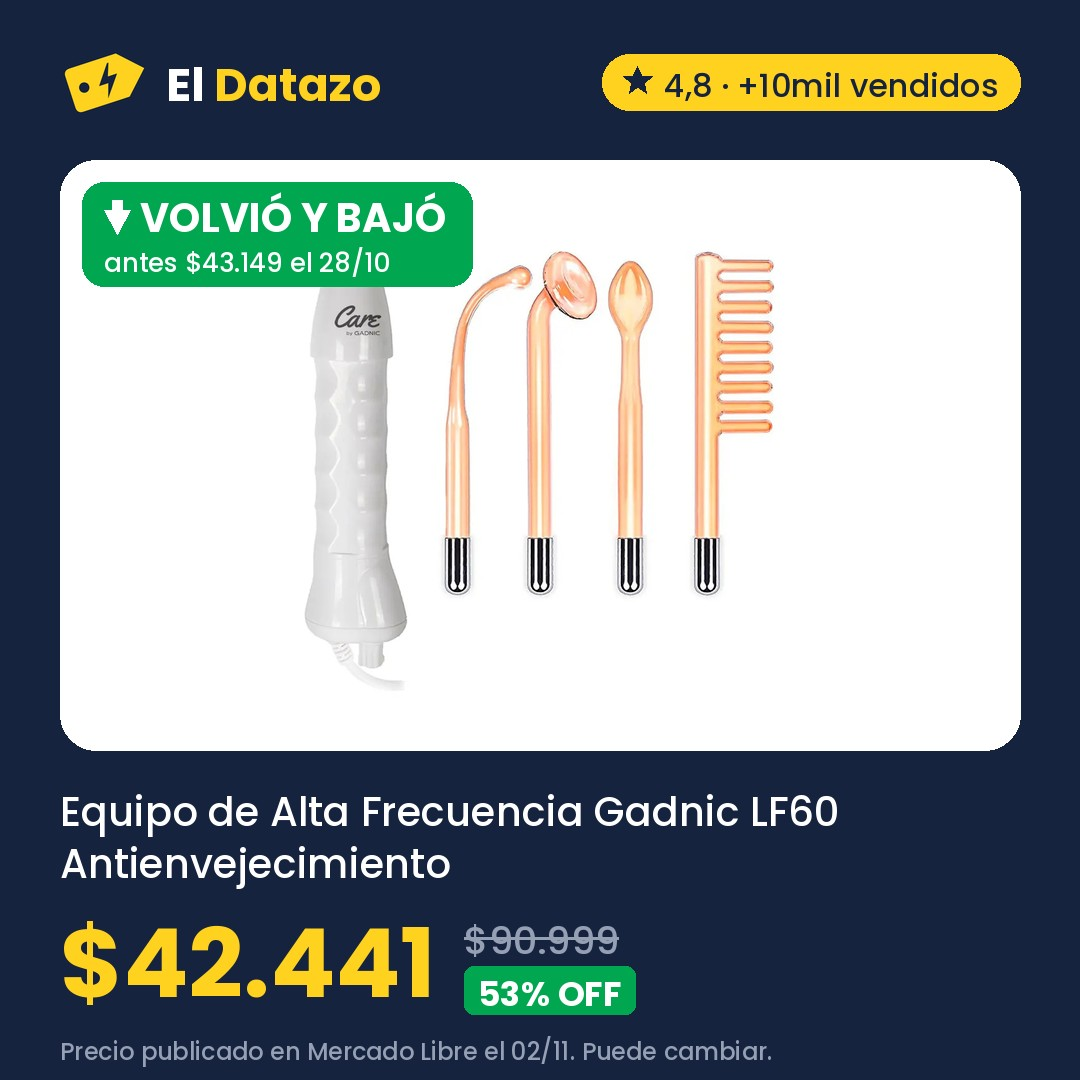
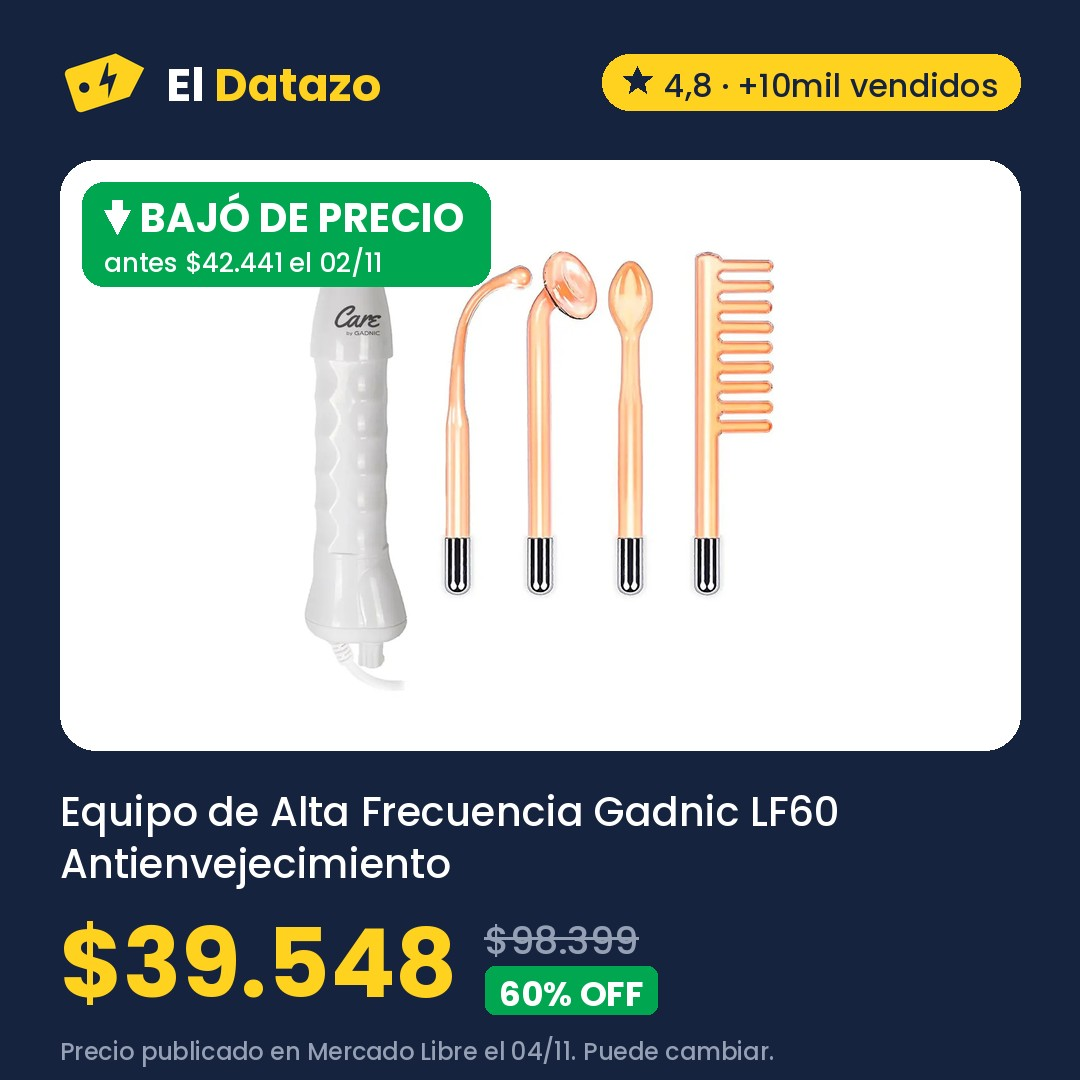
Ofertas 2026-11-04 23:33

Changed region(s): [[0.1222, 0.8556, 0.7028, 1.0], [0.1222, 0.1528, 0.4583, 0.275]]

diff --git a/index.html b/index.html
@@ -285,18 +285,18 @@ padding:3px 9px;border-radius:999px}
         tu precio.</p>
       </section>
       
-  <section class="hero" id="MLA47200126" aria-labelledby="hero-titulo">
-    <div class="hero-foto"><img src="img/MLA47200126.jpg" alt="Extractor De Leche Eléctrico Mawe By Gadnic RH-289 150 ml 9 Niveles Pantalla LED Batería Recargable 1200mAh" width="1080" height="1080"></div>
+  <section class="hero" id="MLA26522167" aria-labelledby="hero-titulo">
+    <div class="hero-foto"><img src="img/MLA26522167.jpg" alt="Equipo de Alta Frecuencia Gadnic LF60 Antienvejecimiento Antiacné Reafirmante Facial 4 Electrodos" width="1080" height="1080"></div>
     <div class="etiqueta">
-      <p class="etiqueta-cabeza">El datazo de hoy <span class="sello">Quedan 7 días</span></p>
-      <h2 id="hero-titulo">Extractor De Leche Eléctrico Mawe By Gadnic RH-289 150 ml 9 Niveles Pantalla LED Batería Recargable 1200mAh</h2>
-      <p class="hero-precio">$31.599</p>
-      <p class="hero-antes"><s>$76.249</s> <span class="off">59% OFF</span></p>
-      <p class="bajo pastilla"><b>⬇ Volvió y bajó</b> · Antes $43.482 el 02/11 · 27% menos</p>
-      <p class="nota">Precio de hoy a las 16:34 en Mercado Libre. Puede cambiar.</p>
-      <a class="boton oscuro" href="https://meli.la/314C11i" rel="sponsored noopener" target="_blank"
-         data-oferta="MLA47200126">Ver oferta en Mercado Libre</a>
-      <a class="compartir" href="https://wa.me/?text=Mir%C3%A1%20este%20datazo%3A%20Extractor%20De%20Leche%20El%C3%A9ctrico%20Mawe%20By%20Gadnic%20RH-289%20150%20ml%209%20Niveles%20Pantalla%20LED%20Bater%C3%ADa%20Recargable%201200mAh%20a%20%2431.599%20https%3A//eldatazo.com.ar/%23MLA47200126" target="_blank" rel="noopener" data-estilo="texto"><svg viewBox="0 0 24 24" width="16" height="16" aria-hidden="true"><path d="M4 20l1.3-4A8 8 0 1 1 8 18.7L4 20z" fill="none" stroke="currentColor" stroke-width="2" stroke-linejoin="round"/></svg> Compartir por WhatsApp</a>
+      <p class="etiqueta-cabeza">El datazo de hoy <span class="sello">Quedan 5 días</span></p>
+      <h2 id="hero-titulo">Equipo de Alta Frecuencia Gadnic LF60 Antienvejecimiento Antiacné Reafirmante Facial 4 Electrodos</h2>
+      <p class="hero-precio">$39.548</p>
+      <p class="hero-antes"><s>$98.399</s> <span class="off">60% OFF</span></p>
+      <p class="bajo pastilla"><b>⬇ Volvió y bajó</b> · Antes $42.441 el 02/11 · 7% menos</p>
+      <p class="nota">Precio de hoy a las 20:33 en Mercado Libre. Puede cambiar.</p>
+      <a class="boton oscuro" href="https://meli.la/1guS1ep" rel="sponsored noopener" target="_blank"
+         data-oferta="MLA26522167">Ver oferta en Mercado Libre</a>
+      <a class="compartir" href="https://wa.me/?text=Mir%C3%A1%20este%20datazo%3A%20Equipo%20de%20Alta%20Frecuencia%20Gadnic%20LF60%20Antienvejecimiento%20Antiacn%C3%A9%20Reafirmante%20Facial%204%20Electrodos%20a%20%2439.548%20https%3A//eldatazo.com.ar/%23MLA26522167" target="_blank" rel="noopener" data-estilo="texto"><svg viewBox="0 0 24 24" width="16" height="16" aria-hidden="true"><path d="M4 20l1.3-4A8 8 0 1 1 8 18.7L4 20z" fill="none" stroke="currentColor" stroke-width="2" stroke-linejoin="round"/></svg> Compartir por WhatsApp</a>
     </div>
   </section>
       
@@ -313,6 +313,8 @@ padding:3px 9px;border-radius:999px}
           <span><b>Yelmo As-3240 Aspiradora Para Auto Recargable Usb Color Gris</b><span class="ahora">$32.899</span><s>$36.567</s> <span class="bajo">⬇ Volvió y bajó</span></span></a></li>
         <li><a href="#MLA19472094"><img src="img/MLA19472094.jpg" alt="" loading="lazy">
           <span><b>God Of War Ragnarok Ps4 Juego Físico Nuevo Sony Original</b><span class="ahora">$69.999</span><s>$75.999</s> <span class="bajo">⬇ Bajó</span></span></a></li>
+        <li><a href="#MLA26522167"><img src="img/MLA26522167.jpg" alt="" loading="lazy">
+          <span><b>Equipo de Alta Frecuencia Gadnic LF60 Antienvejecimiento Antiacné Reafirmante Facial 4 Electrodos</b><span class="ahora">$39.548</span><s>$42.441</s> <span class="bajo">⬇ Volvió y bajó</span></span></a></li>
         <li><a href="#MLA23456165"><img src="img/MLA23456165.jpg" alt="" loading="lazy">
           <span><b>Silfab AL91 Almohadilla Eléctrica Espalda Large 41 X 28 Cm</b><span class="ahora">$46.932</span><s>$50.465</s> <span class="bajo">⬇ Volvió y bajó</span></span></a></li>
         <li><a href="#MLA63186370"><img src="img/MLA63186370.jpg" alt="" loading="lazy">
@@ -321,8 +323,6 @@ padding:3px 9px;border-radius:999px}
           <span><b>Colchón Inflable Doble Klimber + Inflador + 2 Almohadas</b><span class="ahora">$44.946</span><s>$47.514</s> <span class="bajo">⬇ Bajó</span></span></a></li>
         <li><a href="#MLA43803009"><img src="img/MLA43803009.jpg" alt="" loading="lazy">
           <span><b>Mochila Viaje Carry On Avion Porta Notebook Waggs Negro Lisa</b><span class="ahora">$45.087</span><s>$46.799</s> <span class="bajo">⬇ Volvió y bajó</span></span></a></li>
-        <li><a href="#MLA26522167"><img src="img/MLA26522167.jpg" alt="" loading="lazy">
-          <span><b>Equipo de Alta Frecuencia Gadnic LF60 Antienvejecimiento Antiacné Reafirmante Facial 4 Electrodos</b><span class="ahora">$42.441</span><s>$43.149</s> <span class="bajo">⬇ Volvió y bajó</span></span></a></li>
         <li><a href="#MLA16048275"><img src="img/MLA16048275.jpg" alt="" loading="lazy">
           <span><b>Eucerin Sun Oil Control Protector solar facial Toque Seco FPS 50 x 50 ml</b><span class="ahora">$33.886</span> <span class="bajo">⬇ Volvió</span></span></a></li>
         <li><a href="#MLA22130330"><img src="img/MLA22130330.jpg" alt="" loading="lazy">
@@ -346,10 +346,28 @@ padding:3px 9px;border-radius:999px}
             <option value="precio">Más baratas</option>
           </select></label>
       </div>
-      <div class="chips" role="group" aria-label="Rubro"><button type="button" data-filtro="" aria-pressed="true">Todo</button><button type="button" data-filtro="MLA1246" aria-pressed="false">Belleza y Cuidado Personal <span>3</span></button><button type="button" data-filtro="MLA1512" aria-pressed="false">Agro <span>2</span></button><button type="button" data-filtro="MLA1499" aria-pressed="false">Industrias y Oficinas <span>2</span></button><button type="button" data-filtro="MLA409431" aria-pressed="false">Salud y Equipamiento Médico <span>2</span></button><button type="button" data-filtro="MLA1144" aria-pressed="false">Consolas y Videojuegos <span>1</span></button><button type="button" data-filtro="MLA1500" aria-pressed="false">Construcción <span>1</span></button><button type="button" data-filtro="MLA1039" aria-pressed="false">Cámaras y Accesorios <span>1</span></button><button type="button" data-filtro="MLA1276" aria-pressed="false">Deportes y Fitness <span>1</span></button><button type="button" data-filtro="MLA3025" aria-pressed="false">Libros, Revistas y Comics <span>1</span></button><button type="button" data-filtro="MLA1430" aria-pressed="false">Ropa y Accesorios <span>1</span></button></div>
+      <div class="chips" role="group" aria-label="Rubro"><button type="button" data-filtro="" aria-pressed="true">Todo</button><button type="button" data-filtro="MLA1512" aria-pressed="false">Agro <span>2</span></button><button type="button" data-filtro="MLA1246" aria-pressed="false">Belleza y Cuidado Personal <span>2</span></button><button type="button" data-filtro="MLA1499" aria-pressed="false">Industrias y Oficinas <span>2</span></button><button type="button" data-filtro="MLA409431" aria-pressed="false">Salud y Equipamiento Médico <span>2</span></button><button type="button" data-filtro="MLA1384" aria-pressed="false">Bebés <span>1</span></button><button type="button" data-filtro="MLA1144" aria-pressed="false">Consolas y Videojuegos <span>1</span></button><button type="button" data-filtro="MLA1500" aria-pressed="false">Construcción <span>1</span></button><button type="button" data-filtro="MLA1039" aria-pressed="false">Cámaras y Accesorios <span>1</span></button><button type="button" data-filtro="MLA1276" aria-pressed="false">Deportes y Fitness <span>1</span></button><button type="button" data-filtro="MLA3025" aria-pressed="false">Libros, Revistas y Comics <span>1</span></button><button type="button" data-filtro="MLA1430" aria-pressed="false">Ropa y Accesorios <span>1</span></button></div>
       <p class="contador" aria-live="polite"><span data-cuenta>15</span> ofertas</p>
     </div>
     <div class="grilla activas">
+      <article class="tarjeta destacada" id="MLA47200126" data-rubro="MLA1384" data-off="59" data-pub="2026-11-04" data-quedan="7" data-precio="31599" data-bajo="28" data-texto="extractor de leche eléctrico mawe by gadnic rh-289 150 ml 9 niveles pantalla led batería recargable 1200mah">
+        <div class="tarjeta-foto">
+          <img src="img/MLA47200126.jpg" alt="Extractor De Leche Eléctrico Mawe By Gadnic RH-289 150 ml 9 Niveles Pantalla LED Batería Recargable 1200mAh" loading="lazy" width="1080" height="1080">
+        </div>
+        <div class="cuerpo">
+          <div class="fila"><span class="sello baja">⬇ Volvió y bajó</span><span class="sello">Quedan 7 días</span><span class="rubro">Bebés</span></div>
+          <h3>Extractor De Leche Eléctrico Mawe By Gadnic RH-289 150 ml 9 Niveles Pantalla LED Batería Recargable 1200mAh</h3>
+          <p class="precios "><span class="precio">$31.599</span><s class="antes">$76.249</s><span class="off">59% OFF</span></p>
+          <p class="bajo">Antes $43.482 el 02/11 · 27% menos</p>
+          <p class="nota">Precio de hoy a las 20:33 en Mercado Libre. Puede cambiar.</p>
+          <div class="acciones">
+            <a class="boton" href="https://meli.la/314C11i" rel="sponsored noopener" target="_blank"
+               data-oferta="MLA47200126">Ver oferta</a>
+            <a class="compartir" href="https://wa.me/?text=Mir%C3%A1%20este%20datazo%3A%20Extractor%20De%20Leche%20El%C3%A9ctrico%20Mawe%20By%20Gadnic%20RH-289%20150%20ml%209%20Niveles%20Pantalla%20LED%20Bater%C3%ADa%20Recargable%201200mAh%20a%20%2431.599%20https%3A//eldatazo.com.ar/%23MLA47200126" target="_blank" rel="noopener"
+               aria-label="Compartir por WhatsApp" title="Compartir por WhatsApp"><svg viewBox="0 0 24 24" width="16" height="16" aria-hidden="true"><path d="M4 20l1.3-4A8 8 0 1 1 8 18.7L4 20z" fill="none" stroke="currentColor" stroke-width="2" stroke-linejoin="round"/></svg></a>
+          </div>
+        </div>
+      </article>
       <article class="tarjeta destacada" id="MLA16048275" data-rubro="MLA1246" data-off="55" data-pub="2026-11-02" data-quedan="5" data-precio="33885" data-bajo="1" data-texto="eucerin sun oil control protector solar facial toque seco fps 50 x 50 ml">
         <div class="tarjeta-foto">
           <img src="img/MLA16048275.jpg" alt="Eucerin Sun Oil Control Protector solar facial Toque Seco FPS 50 x 50 ml" loading="lazy" width="1080" height="1080">
@@ -359,7 +377,7 @@ padding:3px 9px;border-radius:999px}
           <h3>Eucerin Sun Oil Control Protector solar facial Toque Seco FPS 50 x 50 ml</h3>
           <p class="precios "><span class="precio">$33.886</span><s class="antes">$75.302</s><span class="off">55% OFF</span></p>
           <p class="bajo">Había terminado y volvió al mismo precio</p>
-          <p class="nota">Precio de hoy a las 16:34 en Mercado Libre. Puede cambiar.</p>
+          <p class="nota">Precio de hoy a las 20:33 en Mercado Libre. Puede cambiar.</p>
           <div class="acciones">
             <a class="boton" href="https://meli.la/2Zpeewk" rel="sponsored noopener" target="_blank"
                data-oferta="MLA16048275">Ver oferta</a>
@@ -377,7 +395,7 @@ padding:3px 9px;border-radius:999px}
           <h3>Yelmo As-3240 Aspiradora Para Auto Recargable Usb Color Gris</h3>
           <p class="precios "><span class="precio">$32.899</span><s class="antes">$59.899</s><span class="off">45% OFF</span></p>
           <p class="bajo">Antes $36.567 el 02/11 · 10% menos</p>
-          <p class="nota">Precio del 03/11 en Mercado Libre, revisado hoy a las 16:34. Puede cambiar.</p>
+          <p class="nota">Precio del 03/11 en Mercado Libre, revisado hoy a las 20:33. Puede cambiar.</p>
           <div class="acciones">
             <a class="boton" href="https://meli.la/1BA5g6k" rel="sponsored noopener" target="_blank"
                data-oferta="MLA19719361">Ver oferta</a>
@@ -395,7 +413,7 @@ padding:3px 9px;border-radius:999px}
           <h3>Buclera de Pelo Gadnic B3000 Rizador 3 Tubos 25 mm 150W 180 210 C</h3>
           <p class="precios "><span class="precio">$44.463</span><s class="antes">$100.099</s><span class="off">56% OFF</span></p>
           <p class="bajo">Había terminado y volvió al mismo precio</p>
-          <p class="nota">Precio del 03/11 en Mercado Libre, revisado hoy a las 16:34. Puede cambiar.</p>
+          <p class="nota">Precio del 03/11 en Mercado Libre, revisado hoy a las 20:33. Puede cambiar.</p>
           <div class="acciones">
             <a class="boton" href="https://meli.la/1HyqnAD" rel="sponsored noopener" target="_blank"
                data-oferta="MLA22130330">Ver oferta</a>
@@ -413,29 +431,11 @@ padding:3px 9px;border-radius:999px}
           <h3>Crique Hidraulico Carrito Gato Para Autos 2 Tn Mejor Calidad</h3>
           <p class="precios "><span class="precio">$47.890</span><s class="antes">$58.014</s><span class="off">17% OFF</span></p>
           <p class="bajo">Antes $54.533 el 01/11 · 12% menos</p>
-          <p class="nota">Precio del 02/11 en Mercado Libre, revisado hoy a las 16:34. Puede cambiar.</p>
+          <p class="nota">Precio del 02/11 en Mercado Libre, revisado hoy a las 20:33. Puede cambiar.</p>
           <div class="acciones">
             <a class="boton" href="https://meli.la/2ZwvMNb" rel="sponsored noopener" target="_blank"
                data-oferta="MLA24729106">Ver oferta</a>
             <a class="compartir" href="https://wa.me/?text=Mir%C3%A1%20este%20datazo%3A%20Crique%20Hidraulico%20Carrito%20Gato%20Para%20Autos%202%20Tn%20Mejor%20Calidad%20a%20%2447.890%20https%3A//eldatazo.com.ar/%23MLA24729106" target="_blank" rel="noopener"
-               aria-label="Compartir por WhatsApp" title="Compartir por WhatsApp"><svg viewBox="0 0 24 24" width="16" height="16" aria-hidden="true"><path d="M4 20l1.3-4A8 8 0 1 1 8 18.7L4 20z" fill="none" stroke="currentColor" stroke-width="2" stroke-linejoin="round"/></svg></a>
-          </div>
-        </div>
-      </article>
-      <article class="tarjeta destacada" id="MLA26522167" data-rubro="MLA1246" data-off="53" data-pub="2026-11-02" data-quedan="5" data-precio="42440" data-bajo="3" data-texto="equipo de alta frecuencia gadnic lf60 antienvejecimiento antiacné reafirmante facial 4 electrodos">
-        <div class="tarjeta-foto">
-          <img src="img/MLA26522167.jpg" alt="Equipo de Alta Frecuencia Gadnic LF60 Antienvejecimiento Antiacné Reafirmante Facial 4 Electrodos" loading="lazy" width="1080" height="1080">
-        </div>
-        <div class="cuerpo">
-          <div class="fila"><span class="sello baja">⬇ Volvió y bajó</span><span class="sello">Quedan 5 días</span><span class="rubro">Belleza y Cuidado Personal</span></div>
-          <h3>Equipo de Alta Frecuencia Gadnic LF60 Antienvejecimiento Antiacné Reafirmante Facial 4 Electrodos</h3>
-          <p class="precios "><span class="precio">$42.441</span><s class="antes">$90.999</s><span class="off">53% OFF</span></p>
-          <p class="bajo">Antes $43.149 el 28/10 · 2% menos</p>
-          <p class="nota">Precio del 02/11 en Mercado Libre, revisado hoy a las 16:34. Puede cambiar.</p>
-          <div class="acciones">
-            <a class="boton" href="https://meli.la/1guS1ep" rel="sponsored noopener" target="_blank"
-               data-oferta="MLA26522167">Ver oferta</a>
-            <a class="compartir" href="https://wa.me/?text=Mir%C3%A1%20este%20datazo%3A%20Equipo%20de%20Alta%20Frecuencia%20Gadnic%20LF60%20Antienvejecimiento%20Antiacn%C3%A9%20Reafirmante%20Facial%204%20Electrodos%20a%20%2442.441%20https%3A//eldatazo.com.ar/%23MLA26522167" target="_blank" rel="noopener"
                aria-label="Compartir por WhatsApp" title="Compartir por WhatsApp"><svg viewBox="0 0 24 24" width="16" height="16" aria-hidden="true"><path d="M4 20l1.3-4A8 8 0 1 1 8 18.7L4 20z" fill="none" stroke="currentColor" stroke-width="2" stroke-linejoin="round"/></svg></a>
           </div>
         </div>
@@ -449,7 +449,7 @@ padding:3px 9px;border-radius:999px}
           <h3>BOTIQUÍN DE BAÑO TRENTO AMUBE 30x50 CM | Espejo y Repisa | Melamina Blanca</h3>
           <p class="precios "><span class="precio">$43.999</span><s class="antes">$45.394</s><span class="off">3% OFF</span></p>
           <p class="bajo">Había terminado y volvió al mismo precio</p>
-          <p class="nota">Precio de hoy a las 16:34 en Mercado Libre. Puede cambiar.</p>
+          <p class="nota">Precio de hoy a las 20:33 en Mercado Libre. Puede cambiar.</p>
           <div class="acciones">
             <a class="boton" href="https://meli.la/2PKMfSp" rel="sponsored noopener" target="_blank"
                data-oferta="MLA28878536">Ver oferta</a>
@@ -467,7 +467,7 @@ padding:3px 9px;border-radius:999px}
           <h3>Mochila Viaje Carry On Avion Porta Notebook Waggs Negro Lisa</h3>
           <p class="precios "><span class="precio">$45.087</span><s class="antes">$96.758</s><span class="off">53% OFF</span></p>
           <p class="bajo">Antes $46.799 el 28/10 · 4% menos</p>
-          <p class="nota">Precio del 02/11 en Mercado Libre, revisado hoy a las 16:34. Puede cambiar.</p>
+          <p class="nota">Precio del 02/11 en Mercado Libre, revisado hoy a las 20:33. Puede cambiar.</p>
           <div class="acciones">
             <a class="boton" href="https://meli.la/1Y9GX65" rel="sponsored noopener" target="_blank"
                data-oferta="MLA43803009">Ver oferta</a>
@@ -485,7 +485,7 @@ padding:3px 9px;border-radius:999px}
           <h3>Libro: Primero Yo, Después El Resto: 120 Sesiones De Verdad</h3>
           <p class="precios "><span class="precio">$17.000</span></p>
           <p class="bajo">Antes $33.000 el 01/11 · 48% menos</p>
-          <p class="nota">Precio del 02/11 en Mercado Libre, revisado hoy a las 16:34. Puede cambiar.</p>
+          <p class="nota">Precio del 02/11 en Mercado Libre, revisado hoy a las 20:33. Puede cambiar.</p>
           <div class="acciones">
             <a class="boton" href="https://meli.la/2DQxPNs" rel="sponsored noopener" target="_blank"
                data-oferta="MLA73800060">Ver oferta</a>
@@ -503,7 +503,7 @@ padding:3px 9px;border-radius:999px}
           <h3>God Of War Ragnarok Ps4 Juego Físico Nuevo Sony Original</h3>
           <p class="precios "><span class="precio">$69.999</span><s class="antes">$149.999</s><span class="off">53% OFF</span></p>
           <p class="bajo">Antes $75.999 el 01/11 · 8% menos</p>
-          <p class="nota">Precio del 03/11 en Mercado Libre, revisado hoy a las 16:34. Puede cambiar.</p>
+          <p class="nota">Precio del 03/11 en Mercado Libre, revisado hoy a las 20:33. Puede cambiar.</p>
           <div class="acciones">
             <a class="boton" href="https://meli.la/217QPCu" rel="sponsored noopener" target="_blank"
                data-oferta="MLA19472094">Ver oferta</a>
@@ -521,7 +521,7 @@ padding:3px 9px;border-radius:999px}
           <h3>Silfab AL91 Almohadilla Eléctrica Espalda Large 41 X 28 Cm</h3>
           <p class="precios "><span class="precio">$46.932</span><s class="antes">$52.990</s><span class="off">11% OFF</span></p>
           <p class="bajo">Antes $50.465 el 24/10 · 7% menos</p>
-          <p class="nota">Precio del 02/11 en Mercado Libre, revisado hoy a las 16:34. Puede cambiar.</p>
+          <p class="nota">Precio del 02/11 en Mercado Libre, revisado hoy a las 20:33. Puede cambiar.</p>
           <div class="acciones">
             <a class="boton" href="https://meli.la/2cQdCWW" rel="sponsored noopener" target="_blank"
                data-oferta="MLA23456165">Ver oferta</a>
@@ -539,7 +539,7 @@ padding:3px 9px;border-radius:999px}
           <h3>Taladro Percutor Total Mandril 13mm 710w Tg107136 Color Turquesa Frecuencia 50 Hz x 60 Hz</h3>
           <p class="precios "><span class="precio">$70.220</span></p>
           
-          <p class="nota">Precio del 01/11 en Mercado Libre, revisado hoy a las 16:34. Puede cambiar.</p>
+          <p class="nota">Precio del 01/11 en Mercado Libre, revisado hoy a las 20:33. Puede cambiar.</p>
           <div class="acciones">
             <a class="boton" href="https://meli.la/2dUz2s5" rel="sponsored noopener" target="_blank"
                data-oferta="MLA29532448">Ver oferta</a>
@@ -557,7 +557,7 @@ padding:3px 9px;border-radius:999px}
           <h3>Cámara Digital Kodak Charmera RK0601 Retro Compacta para Llavero y Video</h3>
           <p class="precios "><span class="precio">$54.454</span><s class="antes">$80.000</s><span class="off">32% OFF</span></p>
           <p class="bajo">Antes $57.573 el 01/11 · 5% menos</p>
-          <p class="nota">Precio del 02/11 en Mercado Libre, revisado hoy a las 16:34. Puede cambiar.</p>
+          <p class="nota">Precio del 02/11 en Mercado Libre, revisado hoy a las 20:33. Puede cambiar.</p>
           <div class="acciones">
             <a class="boton" href="https://meli.la/2QAJKif" rel="sponsored noopener" target="_blank"
                data-oferta="MLA63186370">Ver oferta</a>
@@ -575,7 +575,7 @@ padding:3px 9px;border-radius:999px}
           <h3>Tensiometro Digital Brazo Bluetooth Presion Arterial Aparato Para Tomar Presion Batería Recargable Usb Medidor Automatico Femmto KF-DT65S</h3>
           <p class="precios "><span class="precio">$29.301</span><s class="antes">$50.000</s><span class="off">41% OFF</span></p>
           <p class="bajo">Había terminado y volvió al mismo precio</p>
-          <p class="nota">Precio del 03/11 en Mercado Libre, revisado hoy a las 16:34. Puede cambiar.</p>
+          <p class="nota">Precio del 03/11 en Mercado Libre, revisado hoy a las 20:33. Puede cambiar.</p>
           <div class="acciones">
             <a class="boton" href="https://meli.la/2V53bXq" rel="sponsored noopener" target="_blank"
                data-oferta="MLA76118504">Ver oferta</a>
@@ -593,7 +593,7 @@ padding:3px 9px;border-radius:999px}
           <h3>Colchón Inflable Doble Klimber + Inflador + 2 Almohadas</h3>
           <p class="precios "><span class="precio">$44.946</span><s class="antes">$69.793</s><span class="off">36% OFF</span></p>
           <p class="bajo">Antes $47.514 el 03/11 · 5% menos</p>
-          <p class="nota">Precio de hoy a las 16:34 en Mercado Libre. Puede cambiar.</p>
+          <p class="nota">Precio de hoy a las 20:33 en Mercado Libre. Puede cambiar.</p>
           <div class="acciones">
             <a class="boton" href="https://meli.la/19eMhmv" rel="sponsored noopener" target="_blank"
                data-oferta="MLA22764635">Ver oferta</a>
@@ -611,7 +611,7 @@ padding:3px 9px;border-radius:999px}
           <h3>Rotuladora Portátil Niimbot Etiquetadora Manual Impresora Color Blanco D110</h3>
           <p class="precios "><span class="precio">$40.596</span><s class="antes">$58.900</s><span class="off">31% OFF</span></p>
           
-          <p class="nota">Precio del 02/11 en Mercado Libre, revisado hoy a las 16:34. Puede cambiar.</p>
+          <p class="nota">Precio del 02/11 en Mercado Libre, revisado hoy a las 20:33. Puede cambiar.</p>
           <div class="acciones">
             <a class="boton" href="https://meli.la/1czSFp6" rel="sponsored noopener" target="_blank"
                data-oferta="MLA45260672">Ver oferta</a>
@@ -1198,7 +1198,7 @@ padding:3px 9px;border-radius:999px}
       <nav class="redes" aria-label="Redes de El Datazo"><a class="red" href="https://www.instagram.com/eldatazo.arg/" target="_blank" rel="noopener"><svg viewBox="0 0 24 24" width="18" height="18" aria-hidden="true"><rect x="3" y="3" width="18" height="18" rx="5" fill="none" stroke="currentColor" stroke-width="2"/><circle cx="12" cy="12" r="4" fill="none" stroke="currentColor" stroke-width="2"/><circle cx="17.5" cy="6.5" r="1.3" fill="currentColor"/></svg> Instagram</a><a class="red" href="https://www.facebook.com/profile.php?id=61595441168911" target="_blank" rel="noopener"><svg viewBox="0 0 24 24" width="18" height="18" aria-hidden="true"><path d="M14 8h3V4h-3a4 4 0 0 0-4 4v2H7v4h3v8h4v-8h3l1-4h-4V8z" fill="currentColor"/></svg> Facebook</a><a class="red" href="https://t.me/eldatazo_ofertas" target="_blank" rel="noopener"><svg viewBox="0 0 24 24" width="18" height="18" aria-hidden="true"><path d="M21 4 3 11l5 2 2 6 3-4 5 4 3-15zM9 13l9-6-7 8" fill="none" stroke="currentColor" stroke-width="1.8" stroke-linejoin="round"/></svg> Telegram</a></nav>
       <p>Los links son de afiliado de Mercado Libre: si comprás, El Datazo puede recibir una comisión, sin que cambie
       tu precio. Los precios son los publicados en Mercado Libre el día indicado y pueden cambiar.</p>
-      <p>Actualizado el 04/11/2026 16:34 (hora argentina) · <a href="privacidad/">Privacidad</a></p>
+      <p>Actualizado el 04/11/2026 20:33 (hora argentina) · <a href="privacidad/">Privacidad</a></p>
     </div>
   </footer>
   
